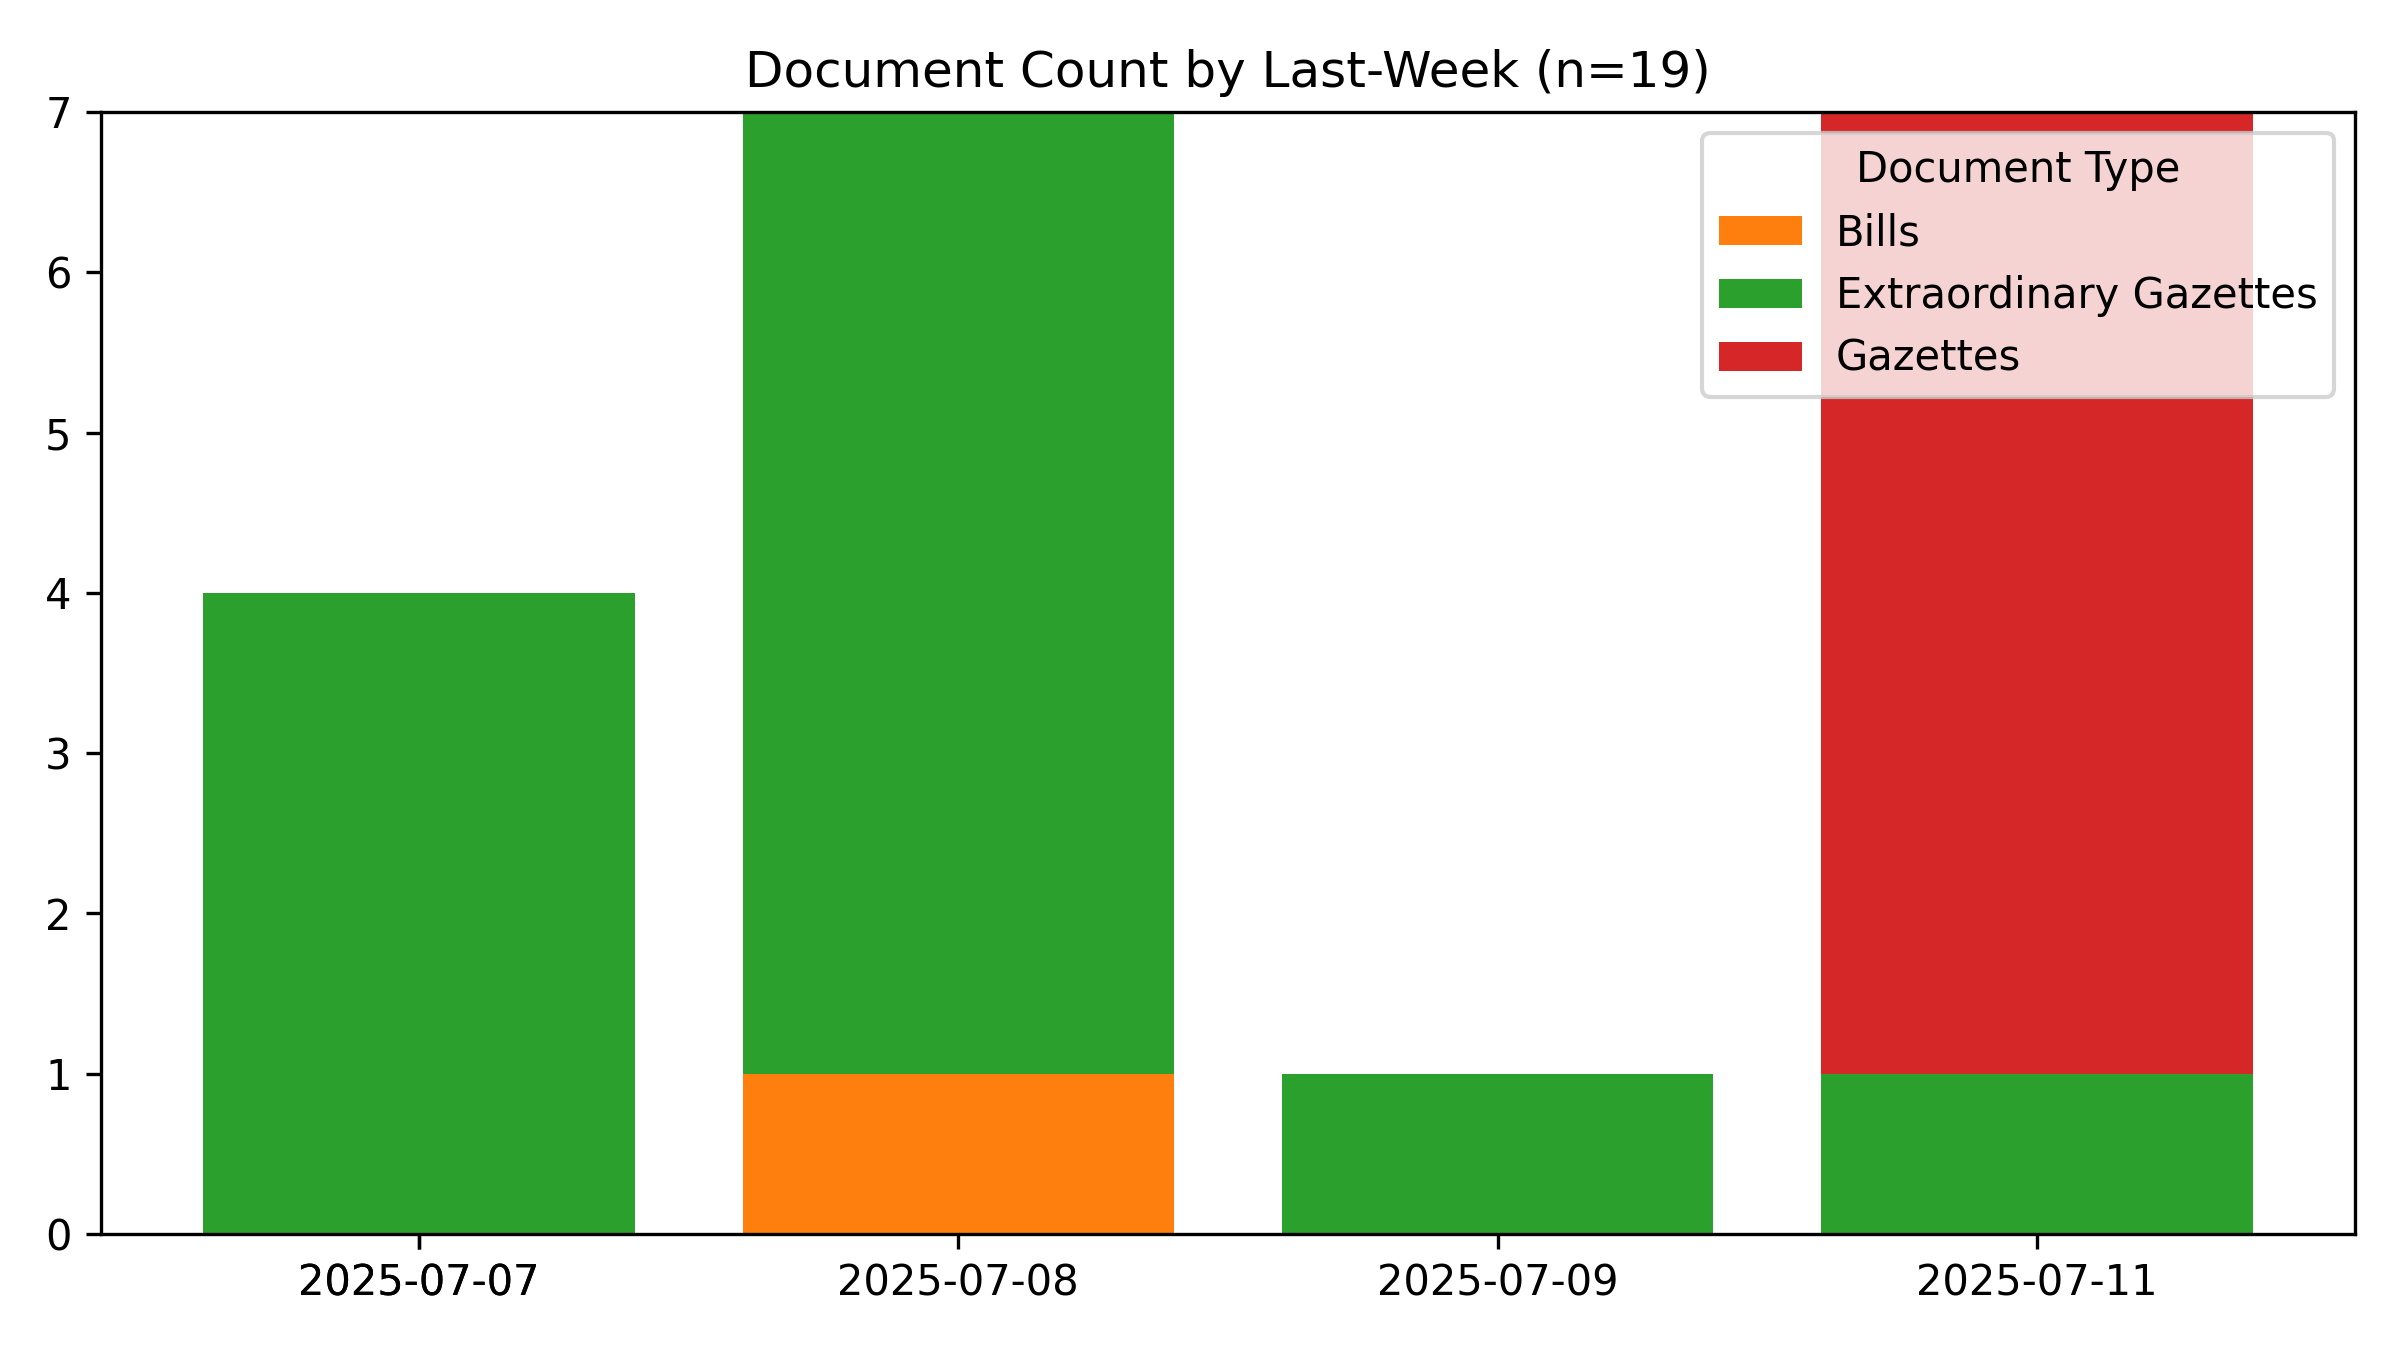
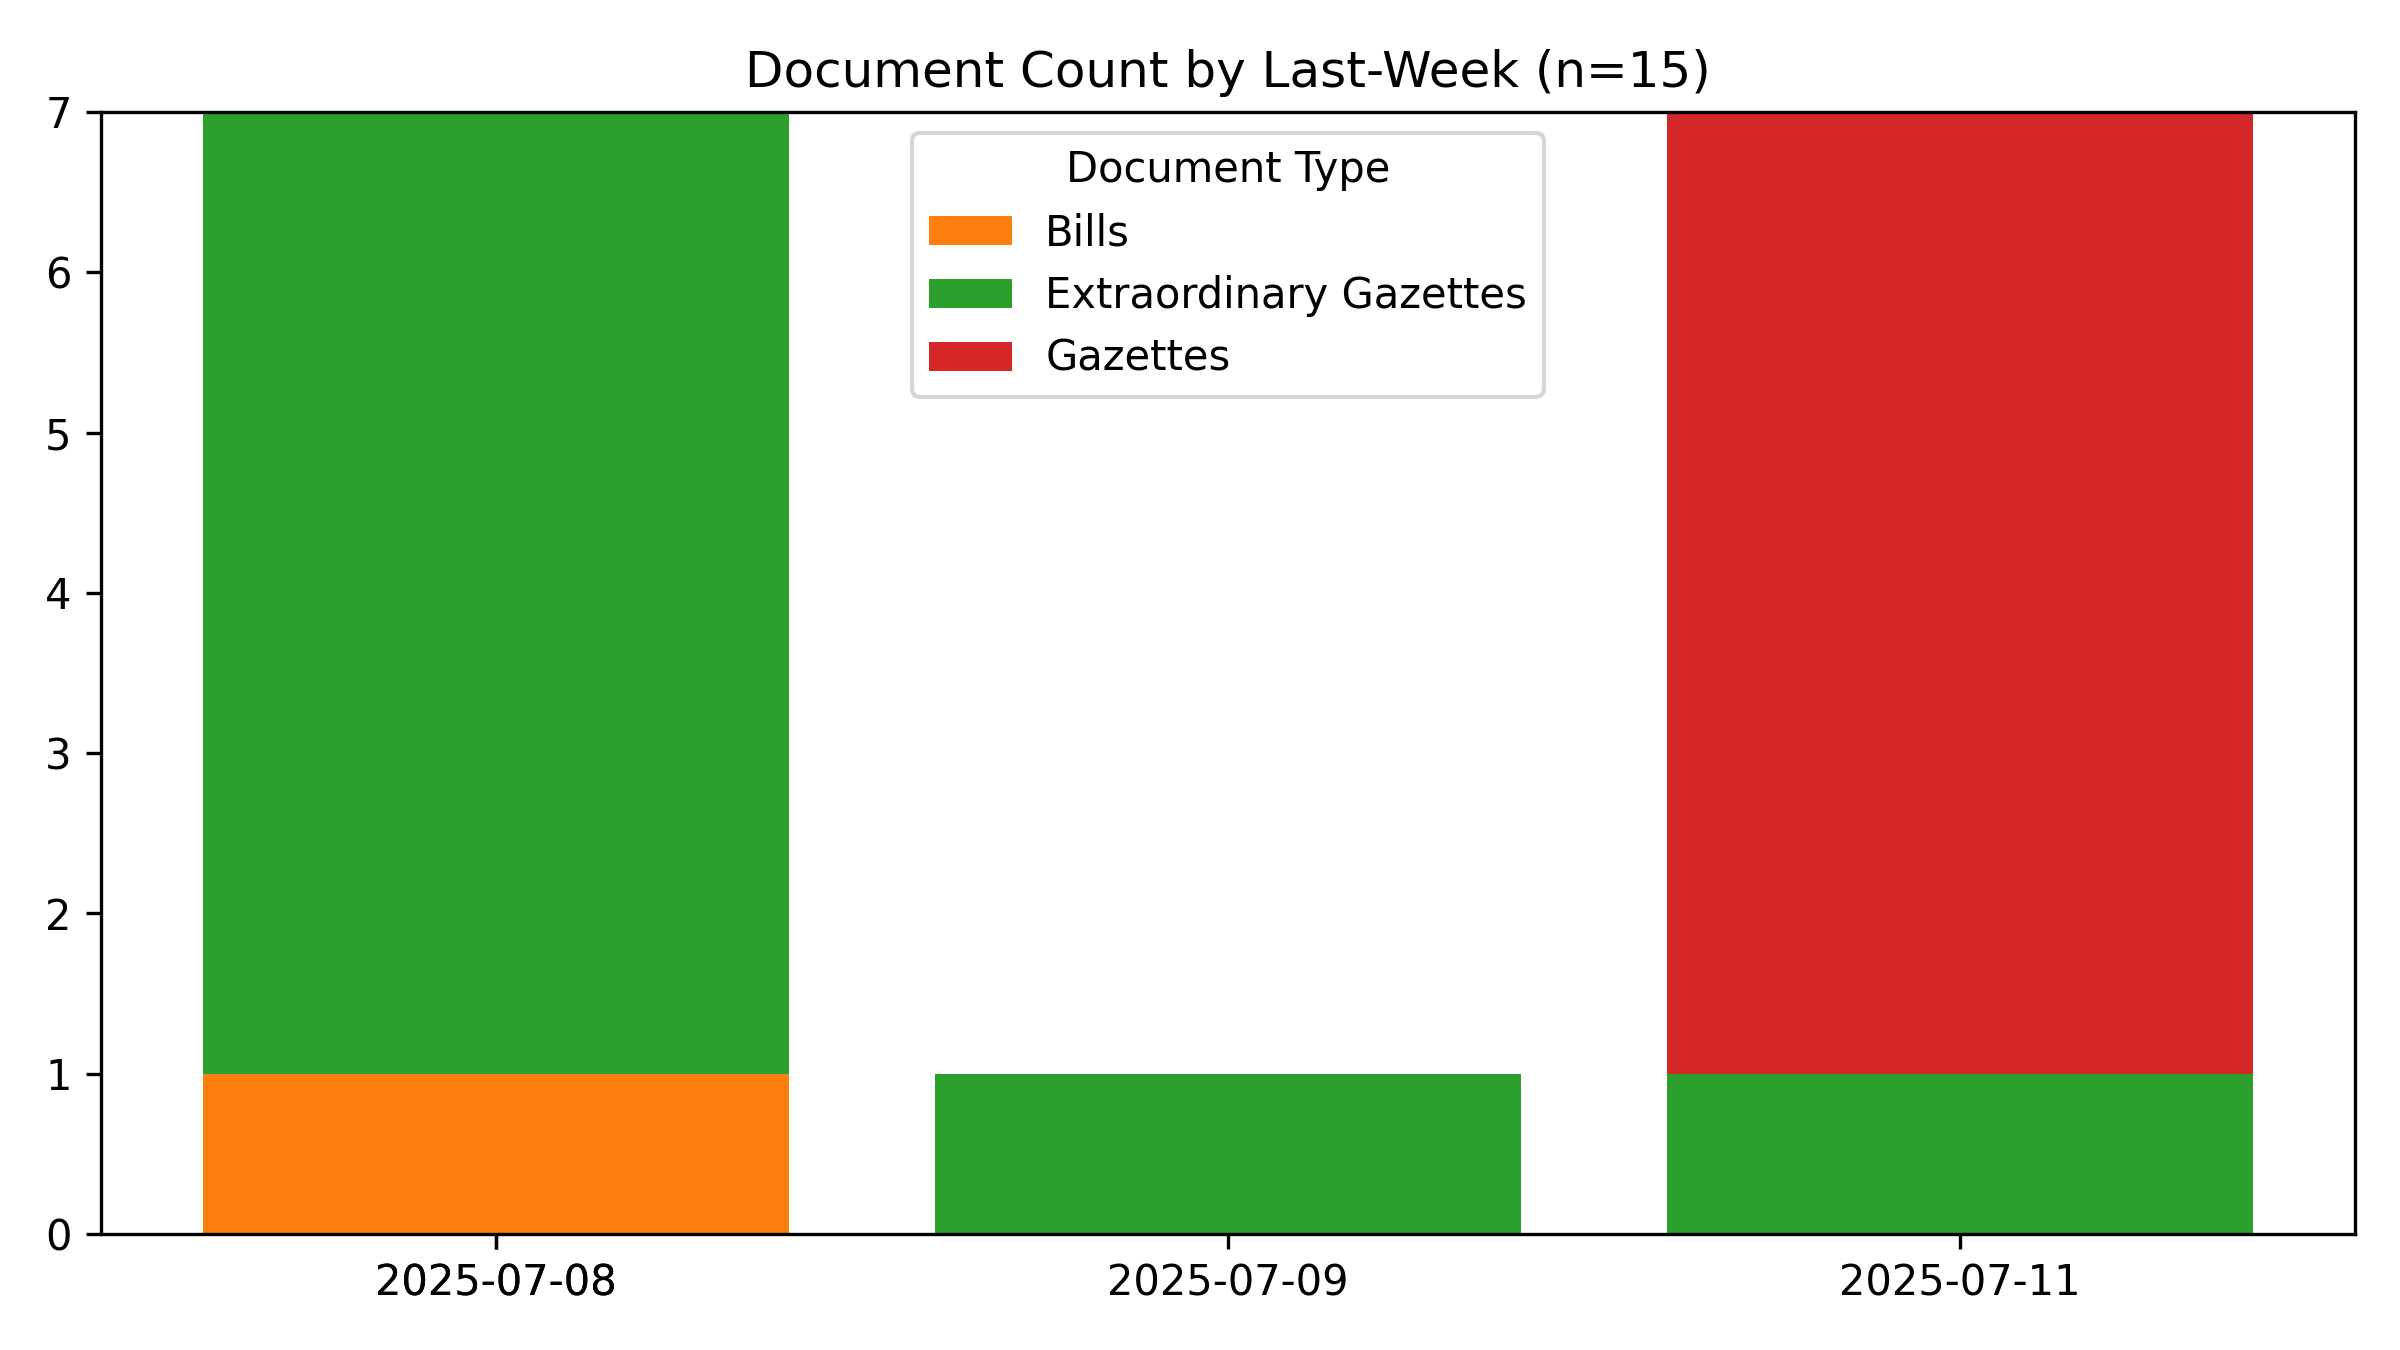
🤖 [data_scraper.yml] 2025-07-15-0010

diff --git a/README.md b/README.md
@@ -1,6 +1,6 @@
 # #SriLanka 🇱🇰 - Legal Documents #Dataset
 
-*Last Updated **2025-07-15 05:22:47**.*
+*Last Updated **2025-07-15 05:40:31**.*
 
 **44,005** documents (40.9 MB), from 1981-01-22 to 2025-07-11.
 
@@ -16,7 +16,7 @@ A collection of 📢 Gazettes, 🚨 Extraordinary Gazettes, 🏛 Acts, ✍
 
 #Legal #OpenData #GovTech
 
-📄 Currently, 31,838 PDFs (13.9 GB) for **11,613** documents (26.4%) have been downloaded. Final data size is estimated to be ~53 GB.
+📄 Currently, 31,833 PDFs (13.9 GB) for **11,609** documents (26.4%) have been downloaded. Final data size is estimated to be ~53 GB.
 
 ## 🆕 The Legal Documents App
 
@@ -45,7 +45,7 @@ For best results, use a desktop browser.
 
 ## Recent Documents (Published during the last 7 days)
 
-**19** Documents
+**15** Documents
 
 - 🚨 [2025-07-11] [Election Commission - Notice under Section 66 (2) Elected to Members for 08 L.G Institutions](https://github.com/nuuuwan/lk_legal_docs_data/tree/main/data/extra-gazettes/2025/2444-60)
 - 📢 [2025-07-11] [Land Section](https://github.com/nuuuwan/lk_legal_docs_data/tree/main/data/gazettes/2025/2025-07-11-land-section)
@@ -62,7 +62,3 @@ For best results, use a desktop browser.
 - 🚨 [2025-07-08] [2444/12](https://github.com/nuuuwan/lk_legal_docs_data/tree/main/data/extra-gazettes/2025/2444-12)
 - 🚨 [2025-07-08] [Thirukkovil - District Secretariat - Pilgrimages Ordinance Annual Sri Siththira Velayutha Swami Temple Annual Festival - 2025](https://github.com/nuuuwan/lk_legal_docs_data/tree/main/data/extra-gazettes/2025/2444-11)
 - 🚨 [2025-07-08] [District Secretariat - Galle - Pilgrimages Ordinance Annual Esala Festival and Procession at the Annual Esala festival and Procession at the Historic Seenigama Sri Devol Maha Devalaya - 2025.](https://github.com/nuuuwan/lk_legal_docs_data/tree/main/data/extra-gazettes/2025/2444-10)
-- 🚨 [2025-07-07] [Presidential Secretariat - Appointed Secretary to the Ministry Finance Planning and Economic Development](https://github.com/nuuuwan/lk_legal_docs_data/tree/main/data/extra-gazettes/2025/2444-09)
-- 🚨 [2025-07-07] [Elections Commission - Declare Elected as a Member of Parliament under Article 99A of the Constitution (Elected Mr. U.D.N. Jayaweera as a Member of the Tenth Parliament)](https://github.com/nuuuwan/lk_legal_docs_data/tree/main/data/extra-gazettes/2025/2444-07)
-- 🚨 [2025-07-07] [Election Commission - Local Authorities Elections Ordinance (Chapter 262) - Notice under Section 66 (2) "Elected to the Members of Akmeemana P.S and Bandarawela P.S](https://github.com/nuuuwan/lk_legal_docs_data/tree/main/data/extra-gazettes/2025/2444-02)
-- 🚨 [2025-07-07] [Sri Lanka Customs - Rates of Exchange with effect from 07.07.2025 to 13.07.2025](https://github.com/nuuuwan/lk_legal_docs_data/tree/main/data/extra-gazettes/2025/2444-01)
